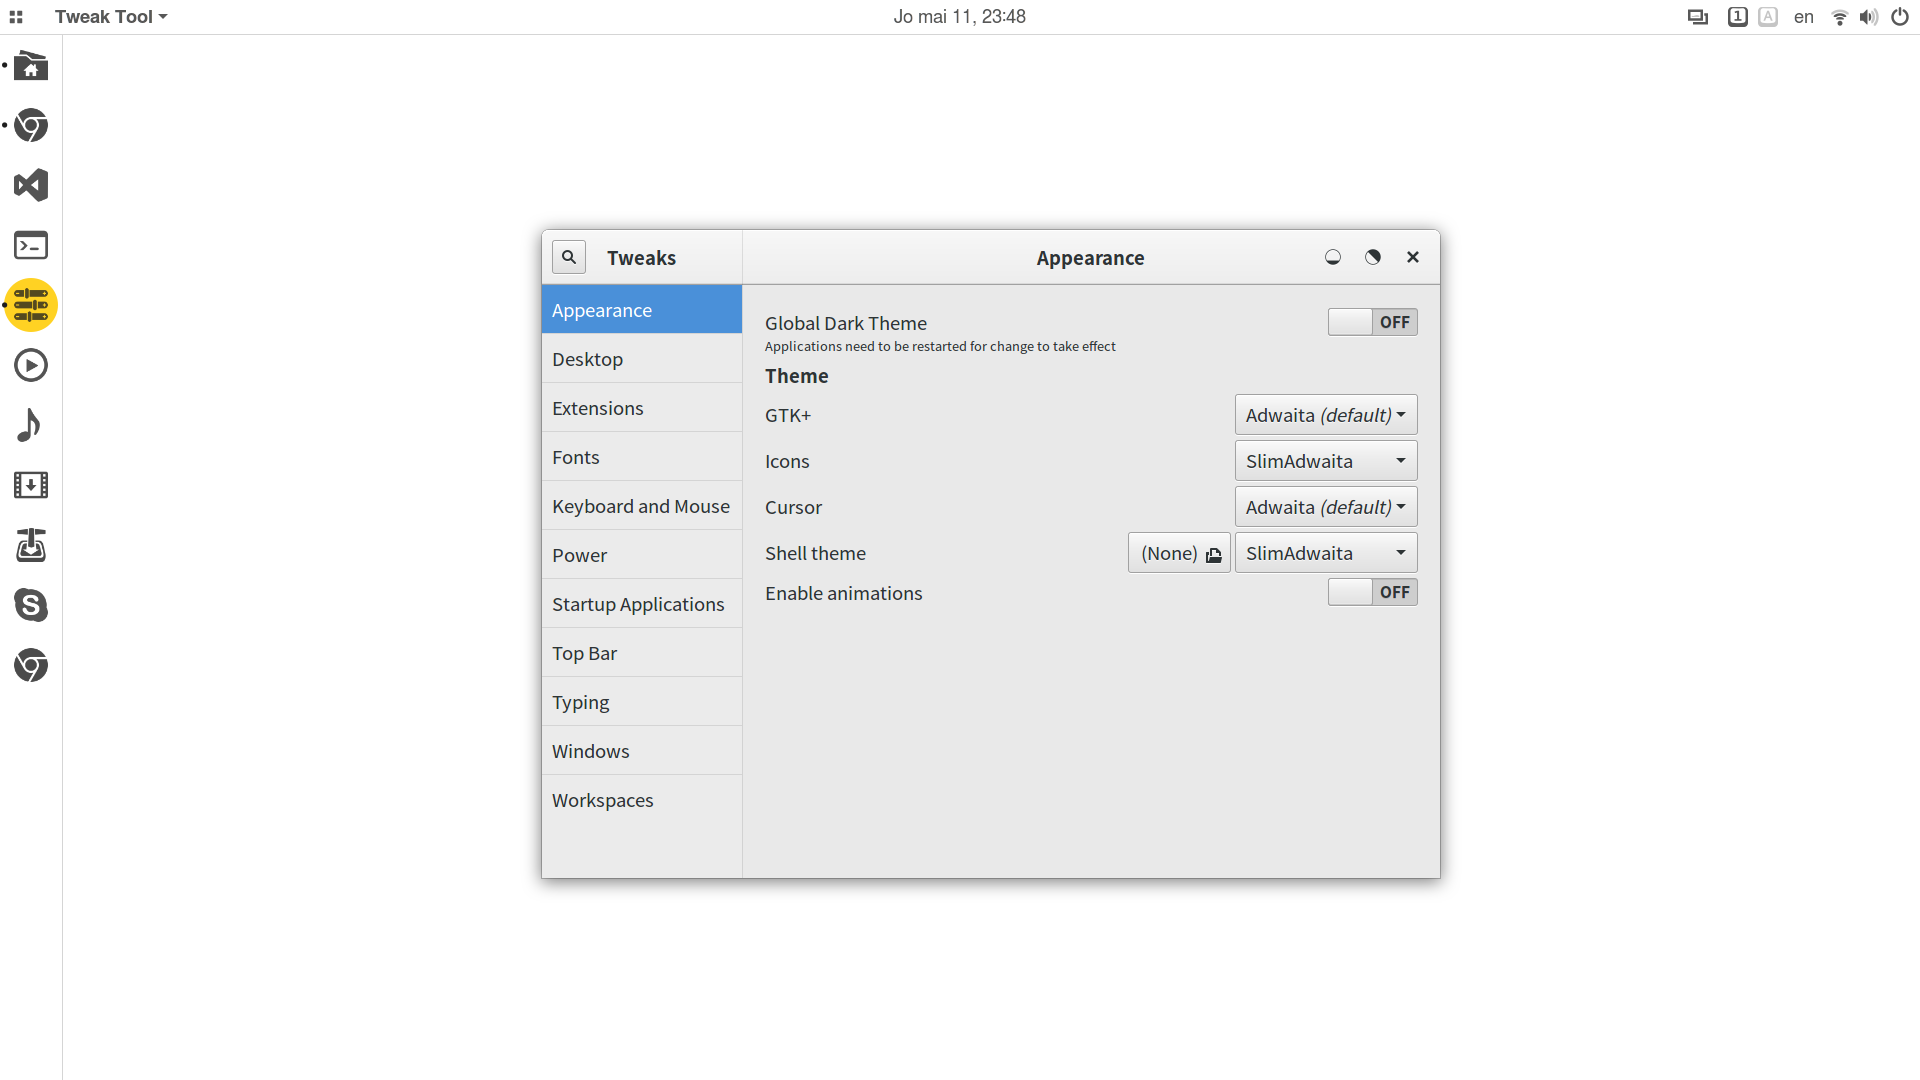
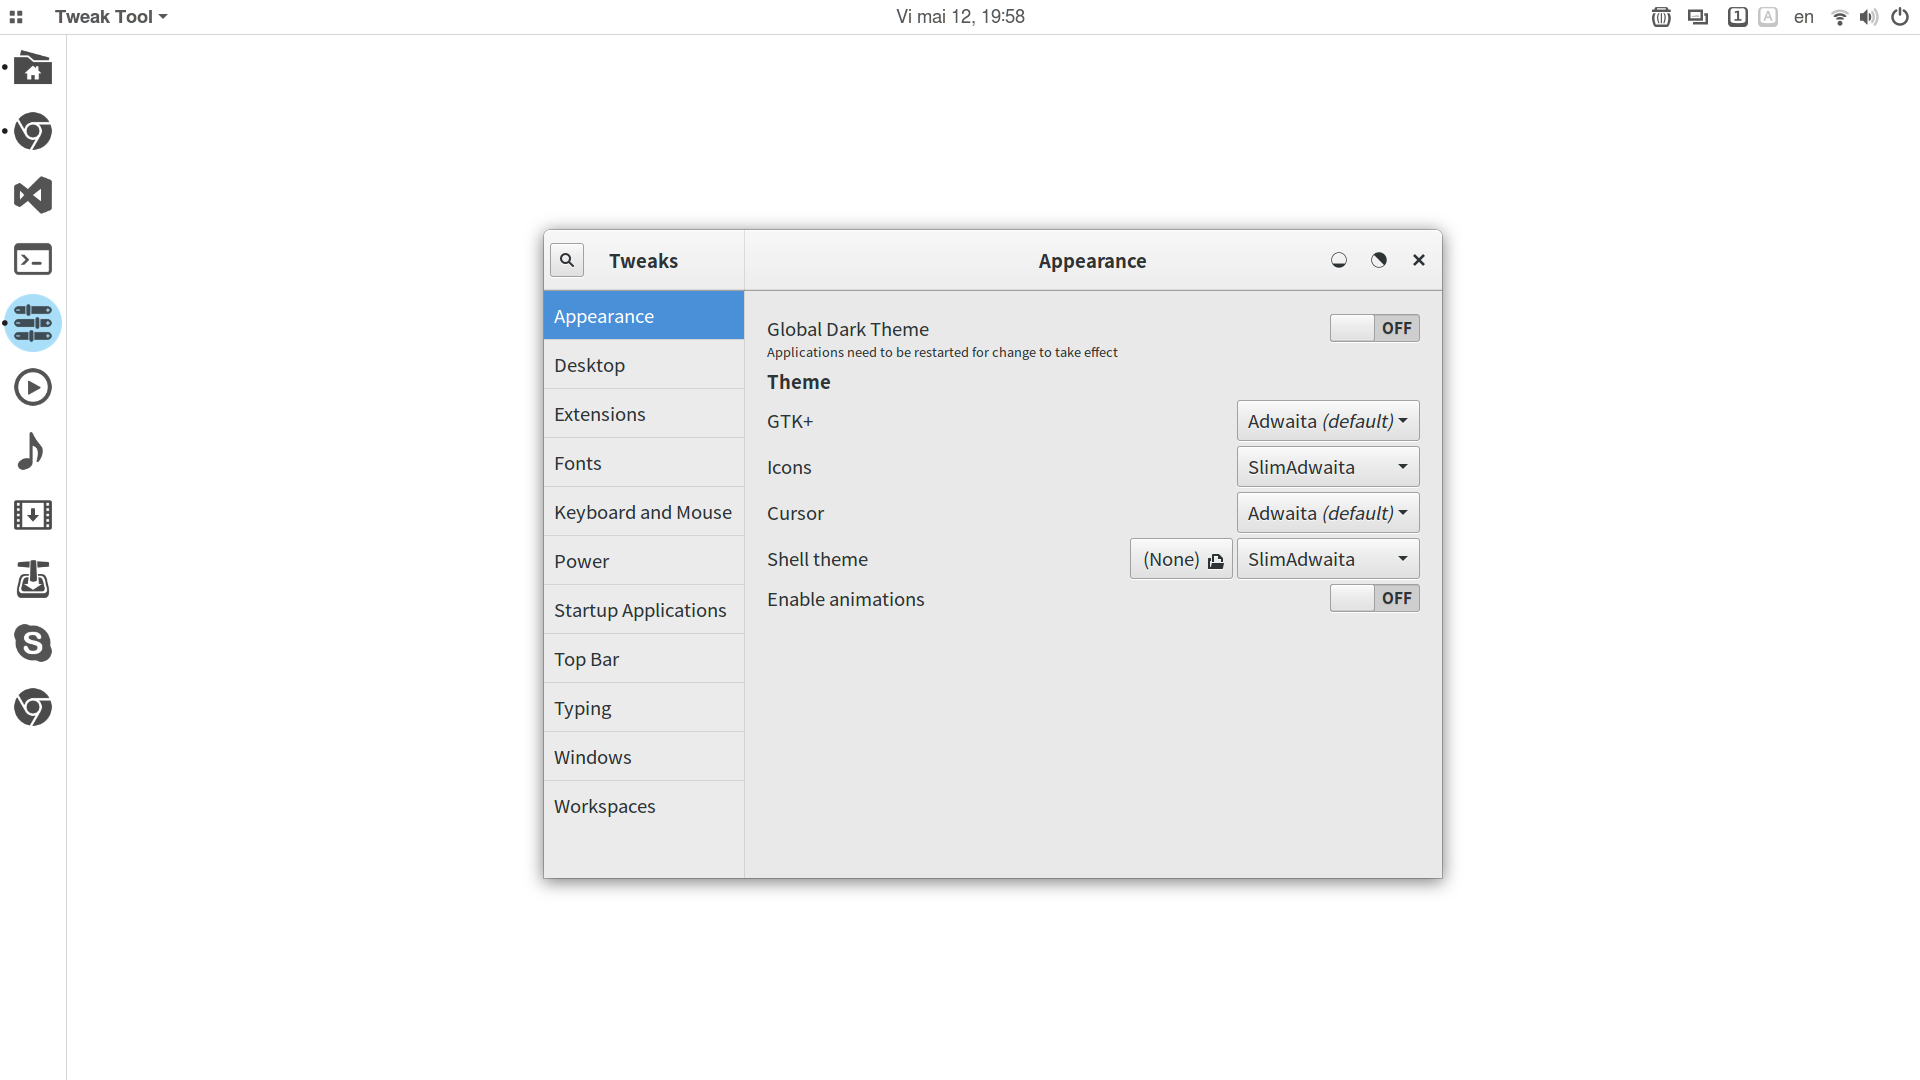
title bar: height: 54px, the same as tweaks titlebar

diff --git a/.config/gtk-3.0/gtk.css b/.config/gtk-3.0/gtk.css
@@ -24,7 +24,8 @@ GtkWindow {
 
 .titlebar {
 	/*border-bottom: 0 none;*/
-	padding: 10px;
+	padding-top: 13px;
+	padding-bottom: 13px;
 }
 
 .maximized .titlebar {
